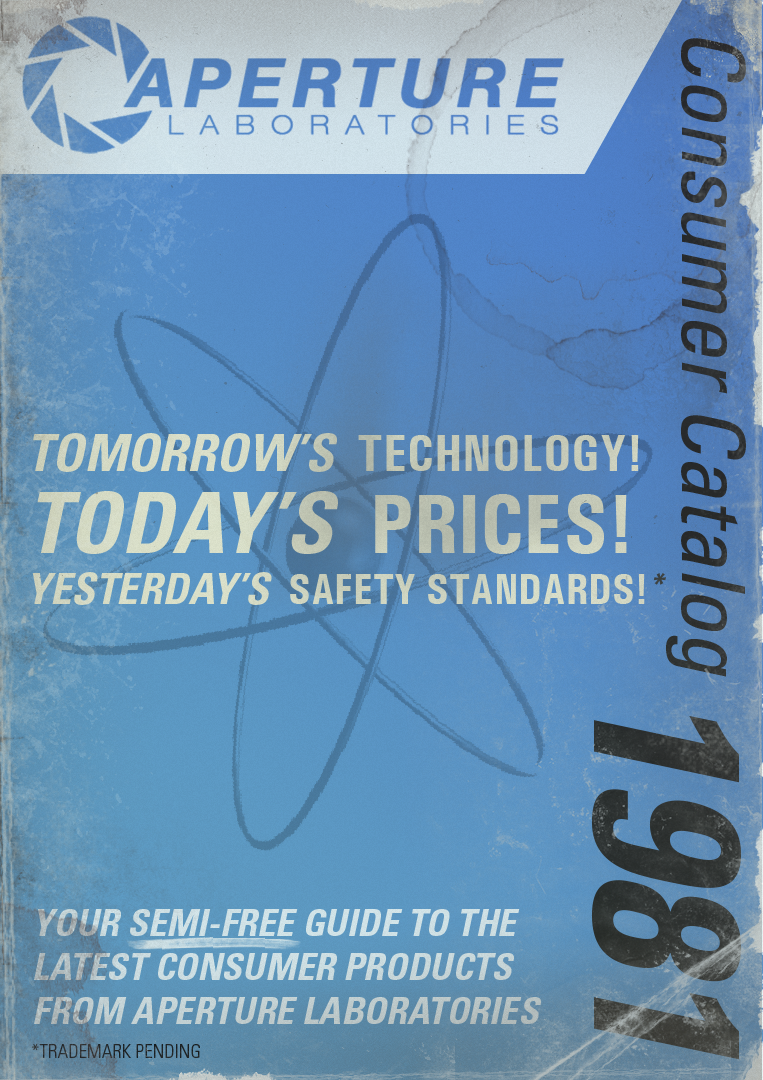
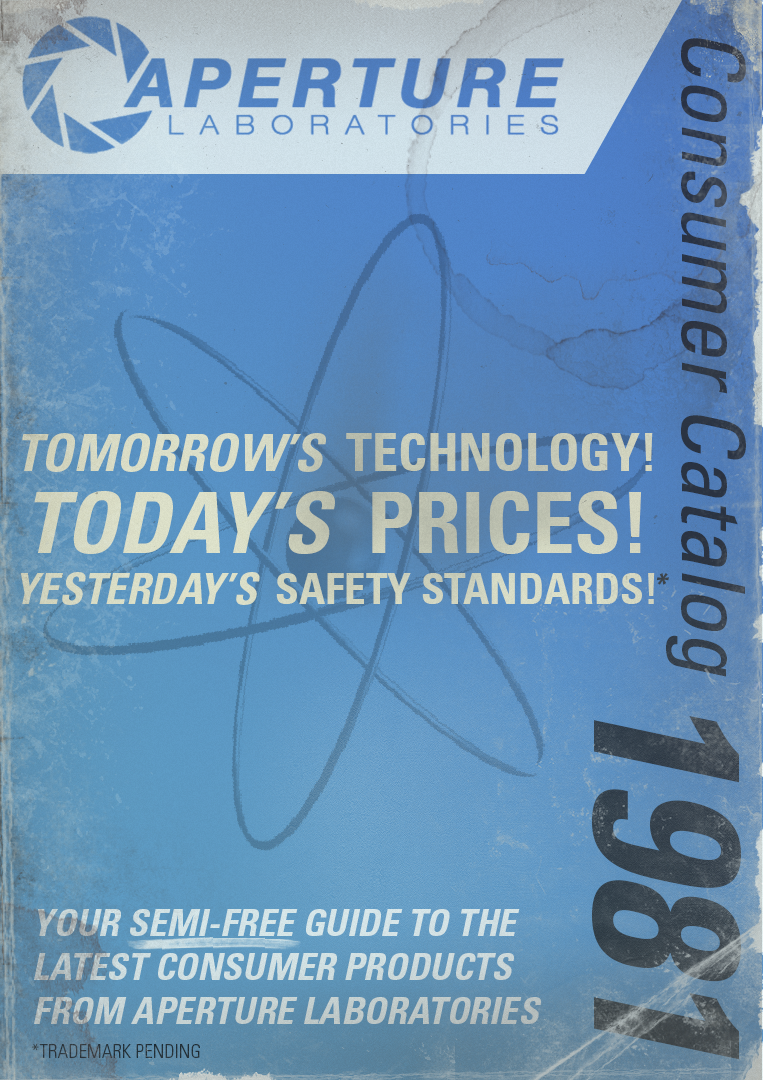
Ω - Update click to start to be more mobile friendly

diff --git a/desolation/catalog/assets/main.css b/desolation/catalog/assets/main.css
@@ -1,1 +1,1 @@
-body,html{overflow:hidden;width:100vw;height:100vh;padding:0;margin:0;background-color:#000;-webkit-user-select:none;-moz-user-select:none;-ms-user-select:none;user-select:none}*{-webkit-user-select:none;-moz-user-select:none;-ms-user-select:none;user-select:none}.filter{-webkit-transition:-webkit-filter 0.667s ease-in-out;transition:-webkit-filter 0.667s ease-in-out;-o-transition:filter 0.667s ease-in-out;-moz-transition:filter 0.667s ease-in-out;transition:filter 0.667s ease-in-out;transition:filter 0.667s ease-in-out, -webkit-filter 0.667s ease-in-out;-webkit-filter:grayscale(75%) contrast(150%) blur(15px);filter:grayscale(75%) contrast(150%) blur(15px)}#desolation-branding{position:fixed;margin-left:auto;right:2vw;display:block;z-index:1}#clickToStart{position:fixed;width:100vw;min-height:100vh;z-index:10000;cursor:pointer;-webkit-transition:opacity 0.667s ease-in-out;-o-transition:opacity 0.667s ease-in-out;-moz-transition:opacity 0.667s ease-in-out;transition:opacity 0.667s ease-in-out}#desolation-logo{width:40vmin;height:10vmin;float:right;-webkit-transition:-webkit-filter 0.4s ease-in-out, -webkit-transform 0.6s ease-out;transition:-webkit-filter 0.4s ease-in-out, -webkit-transform 0.6s ease-out;-o-transition:filter 0.4s ease-in-out, -o-transform 0.6s ease-out;-moz-transition:filter 0.4s ease-in-out, transform 0.6s ease-out, -moz-transform 0.6s ease-out;transition:filter 0.4s ease-in-out, transform 0.6s ease-out;transition:filter 0.4s ease-in-out, transform 0.6s ease-out, -webkit-filter 0.4s ease-in-out, -webkit-transform 0.6s ease-out, -moz-transform 0.6s ease-out, -o-transform 0.6s ease-out}#desolation-logo:hover{-webkit-filter:drop-shadow(0px 0px 12px #d28c1c);filter:drop-shadow(0px 0px 12px #d28c1c);-webkit-transform:scale(1.01);-moz-transform:scale(1.01);-ms-transform:scale(1.01);-o-transform:scale(1.01);transform:scale(1.01);-webkit-transition:-webkit-filter 0.4s ease-in-out, -webkit-transform 0.6s ease-out;transition:-webkit-filter 0.4s ease-in-out, -webkit-transform 0.6s ease-out;-o-transition:filter 0.4s ease-in-out, -o-transform 0.6s ease-out;-moz-transition:filter 0.4s ease-in-out, transform 0.6s ease-out, -moz-transform 0.6s ease-out;transition:filter 0.4s ease-in-out, transform 0.6s ease-out;transition:filter 0.4s ease-in-out, transform 0.6s ease-out, -webkit-filter 0.4s ease-in-out, -webkit-transform 0.6s ease-out, -moz-transform 0.6s ease-out, -o-transform 0.6s ease-out}.requires-flexible-resize{-webkit-transition:opacity 0.25s ease-in-out, -webkit-filter 0.25s ease-in-out, -webkit-transform 0.25s ease-in-out;transition:opacity 0.25s ease-in-out, -webkit-filter 0.25s ease-in-out, -webkit-transform 0.25s ease-in-out;-o-transition:filter 0.25s ease-in-out, opacity 0.25s ease-in-out, -o-transform 0.25s ease-in-out;-moz-transition:filter 0.25s ease-in-out, transform 0.25s ease-in-out, opacity 0.25s ease-in-out, -moz-transform 0.25s ease-in-out;transition:filter 0.25s ease-in-out, transform 0.25s ease-in-out, opacity 0.25s ease-in-out;transition:filter 0.25s ease-in-out, transform 0.25s ease-in-out, opacity 0.25s ease-in-out, -webkit-filter 0.25s ease-in-out, -webkit-transform 0.25s ease-in-out, -moz-transform 0.25s ease-in-out, -o-transform 0.25s ease-in-out;position:absolute;width:100vw;height:100vh;-o-object-fit:cover;object-fit:cover}.glow_prehover{-webkit-filter:drop-shadow(0px 0px 12px #4598d8);filter:drop-shadow(0px 0px 12px #4598d8)}#buttons-container{position:fixed;z-index:32;text-align:center;top:183vh;width:100%;padding-top:1vh;padding-bottom:1vh;border:0.2vmin solid rgba(0, 0, 0, 0.5);margin:auto;-webkit-transition:-webkit-transform 0.45s ease-in-out;transition:-webkit-transform 0.45s ease-in-out;-o-transition:-o-transform 0.45s ease-in-out;-moz-transition:transform 0.45s ease-in-out, -moz-transform 0.45s ease-in-out;transition:transform 0.45s ease-in-out;transition:transform 0.45s ease-in-out, -webkit-transform 0.45s ease-in-out, -moz-transform 0.45s ease-in-out, -o-transform 0.45s ease-in-out;background-color:rgba(0, 0, 0, 0.3)}.controlbutton{float:center;cursor:pointer;color:#D28C1C;width:20vmmin;height:7.32vmin;-webkit-filter:drop-shadow(0px 0px 2px #000) brightness(115%) hue-rotate(0deg);filter:drop-shadow(0px 0px 2px #000) brightness(115%) hue-rotate(0deg);-webkit-transition:-webkit-filter 0.2s ease-in-out;transition:-webkit-filter 0.2s ease-in-out;-o-transition:filter 0.2s ease-in-out;-moz-transition:filter 0.2s ease-in-out;transition:filter 0.2s ease-in-out;transition:filter 0.2s ease-in-out, -webkit-filter 0.2s ease-in-out}#background,#catalogues{-webkit-transition:opacity 0.4s ease-in-out, -webkit-filter 0.4s ease-in-out;transition:opacity 0.4s ease-in-out, -webkit-filter 0.4s ease-in-out;-o-transition:opacity 0.4s ease-in-out, filter 0.4s ease-in-out;-moz-transition:opacity 0.4s ease-in-out, filter 0.4s ease-in-out;transition:opacity 0.4s ease-in-out, filter 0.4s ease-in-out;transition:opacity 0.4s ease-in-out, filter 0.4s ease-in-out, -webkit-filter 0.4s ease-in-out;position:fixed;bottom:0;width:100vw;min-height:100vh}.glow{-webkit-filter:drop-shadow(0px 0px 5px #d28c1c);filter:drop-shadow(0px 0px 5px #d28c1c)}#close-icon:hover{-webkit-filter:drop-shadow(0px 0px 4px #000) brightness(90%) hue-rotate(-38deg);filter:drop-shadow(0px 0px 4px #000) brightness(90%) hue-rotate(-38deg)}.page-icon:hover{-webkit-filter:drop-shadow(0px 0px 4px #000) brightness(170%);filter:drop-shadow(0px 0px 4px #000) brightness(170%)}#catalogue-container{-webkit-transition:0.4s ease-in-out;-o-transition:0.4s ease-in-out;-moz-transition:0.4s ease-in-out;transition:0.4s ease-in-out;position:fixed;top:100vh;display:-webkit-box;display:-webkit-flex;display:-moz-box;display:-ms-flexbox;display:flex;width:100vmin;height:80vmin;margin-left:-webkit-calc(((100vw - 100vmin)/2));margin-left:-moz-calc(((100vw - 100vmin)/2));margin-left:calc(((100vw - 100vmin)/2));-webkit-box-align:center;-webkit-align-items:center;-moz-box-align:center;-ms-flex-align:center;align-items:center;-webkit-box-pack:center;-webkit-justify-content:center;-moz-box-pack:center;-ms-flex-pack:center;justify-content:center;z-index:1000}#catalogue-clicker{position:fixed;left:10vw;bottom:0;width:50vw;height:35vh;cursor:pointer}.scroll-in{-webkit-transform:translate(0px, -97vh)!important;-moz-transform:translate(0px, -97vh)!important;-ms-transform:translate(0px, -97vh)!important;-o-transform:translate(0px, -97vh)!important;transform:translate(0px, -97vh)!important;-webkit-transition:0.4s ease-in-out;-o-transition:0.4s ease-in-out;-moz-transition:0.4s ease-in-out;transition:0.4s ease-in-out}.fade-in{opacity:1!important}.fade-out{opacity:0;pointer-events:none}#catalogue{-webkit-transition:margin-left 0.333s ease-in-out;-o-transition:margin-left 0.333s ease-in-out;-moz-transition:margin-left 0.333s ease-in-out;transition:margin-left 0.333s ease-in-out;max-height:100%;max-width:100%}.notransition{-webkit-transition:none!important;-o-transition:none!important;-moz-transition:none!important;transition:none!important}
+@font-face{font-family:"Univers";src:url("font/univers-condensedbold.ttf")}body,html{font-family:"Univers";overflow:hidden;width:100vw;height:100vh;padding:0;margin:0;background-color:#000;-webkit-user-select:none;-moz-user-select:none;-ms-user-select:none;user-select:none}*{-webkit-user-select:none;-moz-user-select:none;-ms-user-select:none;user-select:none}.filter{-webkit-transition:-webkit-filter 0.667s ease-in-out;transition:-webkit-filter 0.667s ease-in-out;-o-transition:filter 0.667s ease-in-out;-moz-transition:filter 0.667s ease-in-out;transition:filter 0.667s ease-in-out;transition:filter 0.667s ease-in-out, -webkit-filter 0.667s ease-in-out;-webkit-filter:grayscale(75%) contrast(150%) blur(15px);filter:grayscale(75%) contrast(150%) blur(15px)}#desolation-branding{position:fixed;margin-left:auto;right:2vw;display:block;z-index:1}#clickToStart{position:fixed;width:100vw;height:100vh;background:url(img/clicktostart.png) center;-webkit-background-size:cover;-moz-background-size:cover;-o-background-size:cover;background-size:cover;z-index:10000;cursor:pointer;-webkit-transition:opacity 0.667s ease-in-out;-o-transition:opacity 0.667s ease-in-out;-moz-transition:opacity 0.667s ease-in-out;transition:opacity 0.667s ease-in-out;display:-webkit-box;display:-webkit-flex;display:-moz-box;display:-ms-flexbox;display:flex;-webkit-box-align:center;-webkit-align-items:center;-moz-box-align:center;-ms-flex-align:center;align-items:center;-webkit-box-pack:center;-webkit-justify-content:center;-moz-box-pack:center;-ms-flex-pack:center;justify-content:center}#clickToStart p{text-align:center;opacity:0.75;color:#fff;font-size:6em}#desolation-logo{width:40vmin;height:10vmin;float:right;-webkit-transition:-webkit-filter 0.4s ease-in-out, -webkit-transform 0.6s ease-out;transition:-webkit-filter 0.4s ease-in-out, -webkit-transform 0.6s ease-out;-o-transition:filter 0.4s ease-in-out, -o-transform 0.6s ease-out;-moz-transition:filter 0.4s ease-in-out, transform 0.6s ease-out, -moz-transform 0.6s ease-out;transition:filter 0.4s ease-in-out, transform 0.6s ease-out;transition:filter 0.4s ease-in-out, transform 0.6s ease-out, -webkit-filter 0.4s ease-in-out, -webkit-transform 0.6s ease-out, -moz-transform 0.6s ease-out, -o-transform 0.6s ease-out}#desolation-logo:hover{-webkit-filter:drop-shadow(0px 0px 12px #d28c1c);filter:drop-shadow(0px 0px 12px #d28c1c);-webkit-transform:scale(1.01);-moz-transform:scale(1.01);-ms-transform:scale(1.01);-o-transform:scale(1.01);transform:scale(1.01);-webkit-transition:-webkit-filter 0.4s ease-in-out, -webkit-transform 0.6s ease-out;transition:-webkit-filter 0.4s ease-in-out, -webkit-transform 0.6s ease-out;-o-transition:filter 0.4s ease-in-out, -o-transform 0.6s ease-out;-moz-transition:filter 0.4s ease-in-out, transform 0.6s ease-out, -moz-transform 0.6s ease-out;transition:filter 0.4s ease-in-out, transform 0.6s ease-out;transition:filter 0.4s ease-in-out, transform 0.6s ease-out, -webkit-filter 0.4s ease-in-out, -webkit-transform 0.6s ease-out, -moz-transform 0.6s ease-out, -o-transform 0.6s ease-out}.requires-flexible-resize{-webkit-transition:opacity 0.25s ease-in-out, -webkit-filter 0.25s ease-in-out, -webkit-transform 0.25s ease-in-out;transition:opacity 0.25s ease-in-out, -webkit-filter 0.25s ease-in-out, -webkit-transform 0.25s ease-in-out;-o-transition:filter 0.25s ease-in-out, opacity 0.25s ease-in-out, -o-transform 0.25s ease-in-out;-moz-transition:filter 0.25s ease-in-out, transform 0.25s ease-in-out, opacity 0.25s ease-in-out, -moz-transform 0.25s ease-in-out;transition:filter 0.25s ease-in-out, transform 0.25s ease-in-out, opacity 0.25s ease-in-out;transition:filter 0.25s ease-in-out, transform 0.25s ease-in-out, opacity 0.25s ease-in-out, -webkit-filter 0.25s ease-in-out, -webkit-transform 0.25s ease-in-out, -moz-transform 0.25s ease-in-out, -o-transform 0.25s ease-in-out;position:absolute;width:100vw;height:100vh;-o-object-fit:cover;object-fit:cover}.glow_prehover{-webkit-filter:drop-shadow(0px 0px 12px #4598d8);filter:drop-shadow(0px 0px 12px #4598d8)}#buttons-container{position:fixed;z-index:32;text-align:center;top:183vh;width:100%;padding-top:1vh;padding-bottom:1vh;border:0.2vmin solid rgba(0, 0, 0, 0.5);margin:auto;-webkit-transition:-webkit-transform 0.45s ease-in-out;transition:-webkit-transform 0.45s ease-in-out;-o-transition:-o-transform 0.45s ease-in-out;-moz-transition:transform 0.45s ease-in-out, -moz-transform 0.45s ease-in-out;transition:transform 0.45s ease-in-out;transition:transform 0.45s ease-in-out, -webkit-transform 0.45s ease-in-out, -moz-transform 0.45s ease-in-out, -o-transform 0.45s ease-in-out;background-color:rgba(0, 0, 0, 0.3)}.controlbutton{float:center;cursor:pointer;color:#D28C1C;width:20vmmin;height:7.32vmin;-webkit-filter:drop-shadow(0px 0px 2px #000) brightness(115%) hue-rotate(0deg);filter:drop-shadow(0px 0px 2px #000) brightness(115%) hue-rotate(0deg);-webkit-transition:-webkit-filter 0.2s ease-in-out;transition:-webkit-filter 0.2s ease-in-out;-o-transition:filter 0.2s ease-in-out;-moz-transition:filter 0.2s ease-in-out;transition:filter 0.2s ease-in-out;transition:filter 0.2s ease-in-out, -webkit-filter 0.2s ease-in-out}#background,#catalogues{-webkit-transition:opacity 0.4s ease-in-out, -webkit-filter 0.4s ease-in-out;transition:opacity 0.4s ease-in-out, -webkit-filter 0.4s ease-in-out;-o-transition:opacity 0.4s ease-in-out, filter 0.4s ease-in-out;-moz-transition:opacity 0.4s ease-in-out, filter 0.4s ease-in-out;transition:opacity 0.4s ease-in-out, filter 0.4s ease-in-out;transition:opacity 0.4s ease-in-out, filter 0.4s ease-in-out, -webkit-filter 0.4s ease-in-out;position:fixed;bottom:0;width:100vw;min-height:100vh}.glow{-webkit-filter:drop-shadow(0px 0px 5px #d28c1c);filter:drop-shadow(0px 0px 5px #d28c1c)}#close-icon:hover{-webkit-filter:drop-shadow(0px 0px 4px #000) brightness(90%) hue-rotate(-38deg);filter:drop-shadow(0px 0px 4px #000) brightness(90%) hue-rotate(-38deg)}.page-icon:hover{-webkit-filter:drop-shadow(0px 0px 4px #000) brightness(170%);filter:drop-shadow(0px 0px 4px #000) brightness(170%)}#catalogue-container{-webkit-transition:0.4s ease-in-out;-o-transition:0.4s ease-in-out;-moz-transition:0.4s ease-in-out;transition:0.4s ease-in-out;position:fixed;top:100vh;display:-webkit-box;display:-webkit-flex;display:-moz-box;display:-ms-flexbox;display:flex;width:100vmin;height:80vmin;margin-left:-webkit-calc(((100vw - 100vmin)/2));margin-left:-moz-calc(((100vw - 100vmin)/2));margin-left:calc(((100vw - 100vmin)/2));-webkit-box-align:center;-webkit-align-items:center;-moz-box-align:center;-ms-flex-align:center;align-items:center;-webkit-box-pack:center;-webkit-justify-content:center;-moz-box-pack:center;-ms-flex-pack:center;justify-content:center;z-index:1000}#catalogue-clicker{position:fixed;left:10vw;bottom:0;width:50vw;height:35vh;cursor:pointer}.scroll-in{-webkit-transform:translate(0px, -97vh)!important;-moz-transform:translate(0px, -97vh)!important;-ms-transform:translate(0px, -97vh)!important;-o-transform:translate(0px, -97vh)!important;transform:translate(0px, -97vh)!important;-webkit-transition:0.4s ease-in-out;-o-transition:0.4s ease-in-out;-moz-transition:0.4s ease-in-out;transition:0.4s ease-in-out}.fade-in{opacity:1!important}.fade-out{opacity:0;pointer-events:none}#catalogue{-webkit-transition:margin-left 0.333s ease-in-out;-o-transition:margin-left 0.333s ease-in-out;-moz-transition:margin-left 0.333s ease-in-out;transition:margin-left 0.333s ease-in-out;max-height:100%;max-width:100%}.notransition{-webkit-transition:none!important;-o-transition:none!important;-moz-transition:none!important;transition:none!important}

diff --git a/desolation/catalog/index.html b/desolation/catalog/index.html
@@ -1,1 +1,1 @@
-<!DOCTYPE html><html><head><title>Aperture Science Consumer Catalog - 1981</title><meta charset="utf-8"><meta http-equiv="X-UA-Compatible" content="IE=edge"><meta name="twitter:description" property="og:description" itemprop="description" content="Experience the Portal 2: Desolation Interactive Catalog, filled with story info, concept art, and more!"><meta name="viewport" content="width=device-width, initial-scale=1"><link rel="stylesheet" href="assets/main.css"><link rel="apple-touch-icon" sizes="57x57" href="assets/img/favicon/apple-icon-57x57.png"><link rel="apple-touch-icon" sizes="60x60" href="assets/img/favicon/apple-icon-60x60.png"><link rel="apple-touch-icon" sizes="72x72" href="assets/img/favicon/apple-icon-72x72.png"><link rel="apple-touch-icon" sizes="76x76" href="assets/img/favicon/apple-icon-76x76.png"><link rel="apple-touch-icon" sizes="114x114" href="assets/img/favicon/apple-icon-114x114.png"><link rel="apple-touch-icon" sizes="120x120" href="assets/img/favicon/apple-icon-120x120.png"><link rel="apple-touch-icon" sizes="144x144" href="assets/img/favicon/apple-icon-144x144.png"><link rel="apple-touch-icon" sizes="152x152" href="assets/img/favicon/apple-icon-152x152.png"><link rel="apple-touch-icon" sizes="180x180" href="assets/img/favicon/apple-icon-180x180.png"><link rel="icon" type="image/png" sizes="192x192" href="assets/img/favicon/android-icon-192x192.png"><link rel="icon" type="image/png" sizes="32x32" href="assets/img/favicon/favicon-32x32.png"><link rel="icon" type="image/png" sizes="96x96" href="assets/img/favicon/favicon-96x96.png"><link rel="icon" type="image/png" sizes="16x16" href="assets/img/favicon/favicon-16x16.png"><link rel="icon" type="image/x-icon" href="favicon.ico"><link rel="manifest" href="manifest.json"><meta name="msapplication-TileColor" content="#2b2d38"><meta name="msapplication-TileImage" content="assets/img/favicon/ms-icon-144x144.png"><meta name="theme-color" content="#2b2d38"><meta property="og:type" content="website"><meta property="og:url" content="https://emberspark.games/desolation/catalog"><meta name="twitter:title" property="og:title" itemprop="name" content="Aperture Science Consumer Catalog - 1981"><meta property="og:site_name" content="Portal 2: Desolation"><meta property="og:image" itemprop="image primaryImageOfPage" content="https://emberspark.games/desolation/catalog/assets/img/davison.png"><meta name="twitter:card" content="summary"><meta name="twitter:domain" content="emberspark.games"></head><body><img id="clickToStart" src="assets/img/clicktostart.png"><video class="requires-flexible-resize" id="background" src="assets/video/background.mp4" autoplay loop muted mute></video><div id="desolation-branding"><a href="https://www.moddb.com/mods/desolation/"><img id="desolation-logo" src="assets/img/desolationlogo.png"></a></div><img class="glow_prehover fade-in requires-flexible-resize" id="catalogues" src="assets/img/catalogues.png"><div id="catalogue-clicker"></div><div id="catalogue-container"><div id="catalogue"><img src="assets/img/catalogue/CATALOGUE_01.png"><img src="assets/img/catalogue/CATALOGUE_01_back.png"><img src="assets/img/catalogue/CATALOGUE_02.png"><img src="assets/img/catalogue/CATALOGUE_03.png"><img src="assets/img/catalogue/CATALOGUE_04.png"><img src="assets/img/catalogue/CATALOGUE_05.png"><img src="assets/img/catalogue/CATALOGUE_06.png"><img src="assets/img/catalogue/CATALOGUE_07.png"><img src="assets/img/catalogue/CATALOGUE_07b.png"><img src="assets/img/catalogue/CATALOGUE_08.png"><img src="assets/img/catalogue/CATALOGUE_09.png"><img src="assets/img/catalogue/CATALOGUE_10.png"><img src="assets/img/catalogue/CATALOGUE_11.png"><img src="assets/img/catalogue/CATALOGUE_11_back.png"><img src="assets/img/catalogue/CATALOGUE_12.png"><img src="assets/img/catalogue/CATALOGUE_12_back.png"></div></div><div id="buttons-container"><img class="controlbutton page-icon" id="back-icon" src="assets/img/controls/backbutton.png"><img class="controlbutton page-icon" id="close-icon" src="assets/img/controls/closebutton.png"><img class="controlbutton page-icon" id="next-icon" src="assets/img/controls/nextbutton.png"></div><script type="text/javascript" src="assets/js/jquery-3.3.1.min.js"></script><script type="text/javascript" src="assets/js/zoom.min.js"></script><script type="text/javascript" src="assets/js/turn.min.js"></script><audio id="pageTurn1" preload="true" volume="0.3"><source src="assets/audio/SFX_PageTurn1.ogg" type="audio/ogg"><source src="assets/audio/SFX_PageTurn1.mp3" type="audio/mp3"></audio><audio id="pageTurn2" preload="true" volume="0.3"><source src="assets/audio/SFX_PageTurn2.ogg" type="audio/ogg"><source src="assets/audio/SFX_PageTurn2.mp3" type="audio/mp3"></audio><audio id="pageTurn3" preload="true" volume="0.3"><source src="assets/audio/SFX_PageTurn3.ogg" type="audio/ogg"><source src="assets/audio/SFX_PageTurn3.mp3" type="audio/mp3"></audio><audio id="pageTurn4" preload="true" volume="0.3"><source src="assets/audio/SFX_PageTurn4.ogg" type="audio/ogg"><source src="assets/audio/SFX_PageTurn4.mp3" type="audio/mp3"></audio><audio id="pageTurn5" preload="true" volume="0.3"><source src="assets/audio/SFX_PageTurn5.ogg" type="audio/ogg"><source src="assets/audio/SFX_PageTurn5.mp3" type="audio/mp3"></audio><audio id="buttonFocus" volume="0.3" preload="true"><source src="assets/audio/menu_focus.wav" type="audio/ogg"><source src="assets/audio/menu_focus.mp3" type="audio/mp3"></audio><audio id="buttonCancel" volume="0.3" preload="true"><source src="assets/audio/menu_back.wav" type="audio/ogg"><source src="assets/audio/menu_back.mp3" type="audio/mp3"></audio><audio id="buttonCancel" src="assets/audio/menu_back.wav" volume="0.3" type="audio/wav" preload="true"></audio><audio id="backgroundAmbient" loop volume="0.3"><source src="assets/audio/Amb_Lobby.ogg" type="audio/ogg"><source src="assets/audio/Amb_Lobby.mp3" type="audio/mp3"></audio><audio id="vo" loop><source src="assets/audio/Catalog_Lobby_Intercom.ogg" type="audio/ogg"><source src="assets/audio/Catalog_Lobby_Intercom.mp3" type="audio/mp3"></audio><script type="text/javascript" src="assets/js/catalogue-dist.js"></script></body></html>
+<!DOCTYPE html><html><head><title>Aperture Science Consumer Catalog - 1981</title><meta charset="utf-8"><meta http-equiv="X-UA-Compatible" content="IE=edge"><meta name="twitter:description" property="og:description" itemprop="description" content="Experience the Portal 2: Desolation Interactive Catalog, filled with story info, concept art, and more!"><meta name="viewport" content="width=device-width, initial-scale=1"><link rel="stylesheet" href="assets/main.css"><link rel="apple-touch-icon" sizes="57x57" href="assets/img/favicon/apple-icon-57x57.png"><link rel="apple-touch-icon" sizes="60x60" href="assets/img/favicon/apple-icon-60x60.png"><link rel="apple-touch-icon" sizes="72x72" href="assets/img/favicon/apple-icon-72x72.png"><link rel="apple-touch-icon" sizes="76x76" href="assets/img/favicon/apple-icon-76x76.png"><link rel="apple-touch-icon" sizes="114x114" href="assets/img/favicon/apple-icon-114x114.png"><link rel="apple-touch-icon" sizes="120x120" href="assets/img/favicon/apple-icon-120x120.png"><link rel="apple-touch-icon" sizes="144x144" href="assets/img/favicon/apple-icon-144x144.png"><link rel="apple-touch-icon" sizes="152x152" href="assets/img/favicon/apple-icon-152x152.png"><link rel="apple-touch-icon" sizes="180x180" href="assets/img/favicon/apple-icon-180x180.png"><link rel="icon" type="image/png" sizes="192x192" href="assets/img/favicon/android-icon-192x192.png"><link rel="icon" type="image/png" sizes="32x32" href="assets/img/favicon/favicon-32x32.png"><link rel="icon" type="image/png" sizes="96x96" href="assets/img/favicon/favicon-96x96.png"><link rel="icon" type="image/png" sizes="16x16" href="assets/img/favicon/favicon-16x16.png"><link rel="icon" type="image/x-icon" href="favicon.ico"><link rel="manifest" href="manifest.json"><meta name="msapplication-TileColor" content="#2b2d38"><meta name="msapplication-TileImage" content="assets/img/favicon/ms-icon-144x144.png"><meta name="theme-color" content="#2b2d38"><meta property="og:type" content="website"><meta property="og:url" content="https://emberspark.games/desolation/catalog"><meta name="twitter:title" property="og:title" itemprop="name" content="Aperture Science Consumer Catalog - 1981"><meta property="og:site_name" content="Portal 2: Desolation"><meta property="og:image" itemprop="image primaryImageOfPage" content="https://emberspark.games/desolation/catalog/assets/img/davison.png"><meta name="twitter:card" content="summary"><meta name="twitter:domain" content="emberspark.games"></head><body><div class="requires-flexible-resize" id="clickToStart"><p>CLICK ANYWHERE TO BEGIN</p></div><video class="requires-flexible-resize" id="background" src="assets/video/background.mp4" autoplay loop muted mute></video><div id="desolation-branding"><a href="https://www.moddb.com/mods/desolation/"><img id="desolation-logo" src="assets/img/desolationlogo.png"></a></div><img class="glow_prehover fade-in requires-flexible-resize" id="catalogues" src="assets/img/catalogues.png"><div id="catalogue-clicker"></div><div id="catalogue-container"><div id="catalogue"><img src="assets/img/catalogue/CATALOGUE_01.png"><img src="assets/img/catalogue/CATALOGUE_01_back.png"><img src="assets/img/catalogue/CATALOGUE_02.png"><img src="assets/img/catalogue/CATALOGUE_03.png"><img src="assets/img/catalogue/CATALOGUE_04.png"><img src="assets/img/catalogue/CATALOGUE_05.png"><img src="assets/img/catalogue/CATALOGUE_06.png"><img src="assets/img/catalogue/CATALOGUE_07.png"><img src="assets/img/catalogue/CATALOGUE_07b.png"><img src="assets/img/catalogue/CATALOGUE_08.png"><img src="assets/img/catalogue/CATALOGUE_09.png"><img src="assets/img/catalogue/CATALOGUE_10.png"><img src="assets/img/catalogue/CATALOGUE_11.png"><img src="assets/img/catalogue/CATALOGUE_11_back.png"><img src="assets/img/catalogue/CATALOGUE_12.png"><img src="assets/img/catalogue/CATALOGUE_12_back.png"></div></div><div id="buttons-container"><img class="controlbutton page-icon" id="back-icon" src="assets/img/controls/backbutton.png"><img class="controlbutton page-icon" id="close-icon" src="assets/img/controls/closebutton.png"><img class="controlbutton page-icon" id="next-icon" src="assets/img/controls/nextbutton.png"></div><script type="text/javascript" src="assets/js/jquery-3.3.1.min.js"></script><script type="text/javascript" src="assets/js/zoom.min.js"></script><script type="text/javascript" src="assets/js/turn.min.js"></script><audio id="pageTurn1" preload="true" volume="0.3"><source src="assets/audio/SFX_PageTurn1.ogg" type="audio/ogg"><source src="assets/audio/SFX_PageTurn1.mp3" type="audio/mp3"></audio><audio id="pageTurn2" preload="true" volume="0.3"><source src="assets/audio/SFX_PageTurn2.ogg" type="audio/ogg"><source src="assets/audio/SFX_PageTurn2.mp3" type="audio/mp3"></audio><audio id="pageTurn3" preload="true" volume="0.3"><source src="assets/audio/SFX_PageTurn3.ogg" type="audio/ogg"><source src="assets/audio/SFX_PageTurn3.mp3" type="audio/mp3"></audio><audio id="pageTurn4" preload="true" volume="0.3"><source src="assets/audio/SFX_PageTurn4.ogg" type="audio/ogg"><source src="assets/audio/SFX_PageTurn4.mp3" type="audio/mp3"></audio><audio id="pageTurn5" preload="true" volume="0.3"><source src="assets/audio/SFX_PageTurn5.ogg" type="audio/ogg"><source src="assets/audio/SFX_PageTurn5.mp3" type="audio/mp3"></audio><audio id="buttonFocus" volume="0.3" preload="true"><source src="assets/audio/menu_focus.wav" type="audio/ogg"><source src="assets/audio/menu_focus.mp3" type="audio/mp3"></audio><audio id="buttonCancel" volume="0.3" preload="true"><source src="assets/audio/menu_back.wav" type="audio/ogg"><source src="assets/audio/menu_back.mp3" type="audio/mp3"></audio><audio id="buttonCancel" src="assets/audio/menu_back.wav" volume="0.3" type="audio/wav" preload="true"></audio><audio id="backgroundAmbient" loop volume="0.3"><source src="assets/audio/Amb_Lobby.ogg" type="audio/ogg"><source src="assets/audio/Amb_Lobby.mp3" type="audio/mp3"></audio><audio id="vo" loop><source src="assets/audio/Catalog_Lobby_Intercom.ogg" type="audio/ogg"><source src="assets/audio/Catalog_Lobby_Intercom.mp3" type="audio/mp3"></audio><script type="text/javascript" src="assets/js/catalogue-dist.js"></script></body></html>
